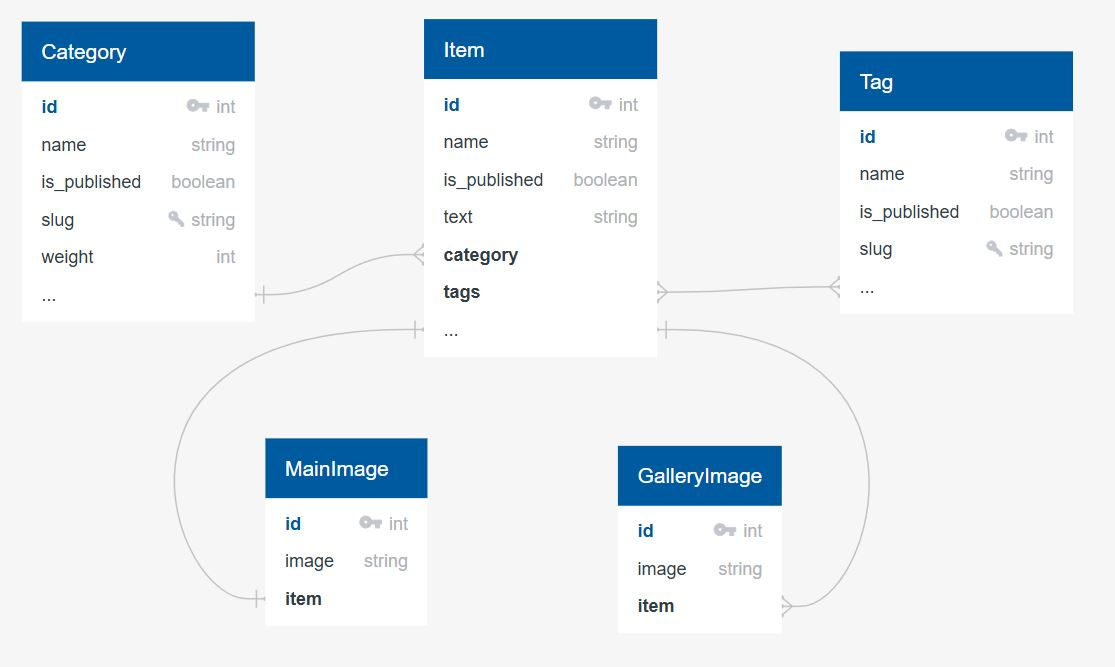
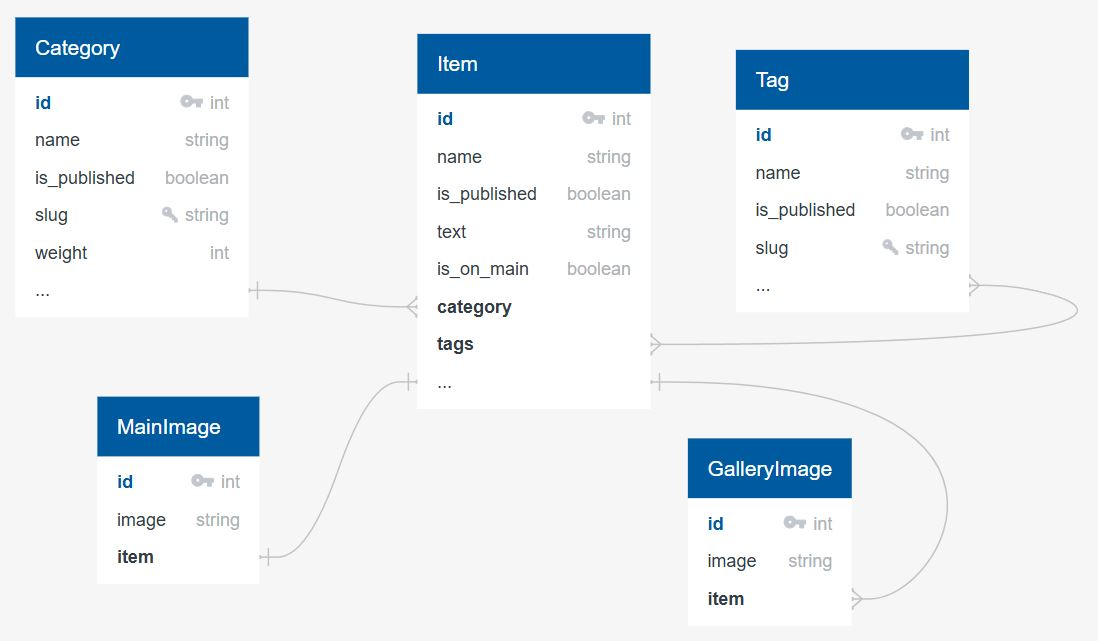
реализовано динамическое наполнение сайта

diff --git a/lyceum/templates/homepage/main.html b/lyceum/templates/homepage/main.html
@@ -2,16 +2,10 @@
 
 {% block content %}
   <h1>Главная страница</h1>
-  <h1>Страница с товарами</h1>
+  <h2>Персональная подборка товаров</h2>
   <div class="d-flex flex-row gap-3">
-    {% for good in goods%}
-      <div class="card" style="width: 18rem;">
-          <div class="card-body">
-          <h5 class="card-title">{{ good.name }}</h5>
-          <p class="card-text">{{ good.description }}</p>
-          <a href="{% url "catalog:item_detail" 1 %}" class="btn btn-primary">Перейти</a>
-          </div>
-      </div>
+    {% for good in goods %}
+      {% include "includes/item_card.html" %}
     {% endfor %}
   </div>
 {% endblock %}

diff --git a/lyceum/templates/catalog/item.html b/lyceum/templates/catalog/item.html
@@ -1,5 +1,17 @@
 {% extends "base.html" %}
+{% load static %}
 
 {% block content %}
-  <h1>Страница отдельного енота</h1>
+  <h1>{{ good.name }}</h1>
+  <img src="{{ good.main_image.get_image_x1280.url }}" class="col-12 col-md-6">
+  <h2>Основная информация</h2>
+  <p>{{ good.text|safe }}</p>
+  <p>Категория: {{ good.category.name }}</p>
+  <p>Теги: {{ good.tags.all|join:", " }}</p>
+  <h3>Галерея:</h3>
+  <div>
+    {% for image in good.images.all %}
+      <img src="{{ image.get_image_x1280.url }}" class="col-12 col-md-3">
+    {% endfor %}
+  </div>
 {% endblock %}

diff --git a/lyceum/templates/catalog/item_list.html b/lyceum/templates/catalog/item_list.html
@@ -3,14 +3,8 @@
 {% block content %}
   <h1>Страница с товарами</h1>
   <div class="d-flex flex-row gap-3">
-    {% for good in goods%}
-      <div class="card" style="width: 18rem;">
-          <div class="card-body">
-          <h5 class="card-title">{{ good.name }}</h5>
-          <p class="card-text">{{ good.description }}</p>
-          <a href="{% url "catalog:item_detail" 1 %}" class="btn btn-primary">Перейти</a>
-          </div>
-      </div>
+    {% for good in goods %}
+      {% include "includes/item_card.html" %}
     {% endfor %}
   </div>
 {% endblock %}

diff --git a/lyceum/templates/includes/item_card.html b/lyceum/templates/includes/item_card.html
@@ -1,0 +1,11 @@
+{% load static %}
+
+<div class="card" style="width: 18rem;">
+    <div class="card-body">
+    <h5 class="card-title">{{ good.name }}</h5>
+    <p class="card-text">Категория: {{ good.category.name }}</p>
+    <p class="card-text">{{ good.text|truncatewords_html:10|safe }}</p>
+    <p class="card-text">Теги: {{ good.tags.all|join:", " }}</p>
+    <a href="{% url "catalog:item_detail" good.id %}" class="btn btn-primary">Перейти</a>
+    </div>
+</div>

diff --git a/lyceum/templates/includes/footer.html b/lyceum/templates/includes/footer.html
@@ -1,5 +1,5 @@
 {% load static %}
 
-<footer class="container bg-dark text-light">
+<footer class="container">
     <h6 class="fs-5">Copyright Racoon-Company. 2024</h6>
 </footer>

diff --git a/lyceum/catalog/tests/test_catalog_views.py b/lyceum/catalog/tests/test_catalog_views.py
@@ -1,14 +1,12 @@
-import http
-
-import django.test
+from django.test import Client, TestCase
 from django.urls import reverse
 
 import catalog.models
 
-__all__ = ["HomepageTests"]
+__all__ = []
 
 
-class HomepageTests(django.test.TestCase):
+class CatalogViewsTest(TestCase):
     def setUp(self):
         self.category1 = catalog.models.Category(
             name="test_category_1",
@@ -20,7 +18,6 @@ class HomepageTests(django.test.TestCase):
             name="test_name_1",
             text="роскошно",
             is_published=True,
-            is_on_main=True,
         )
         self.item2 = catalog.models.Item(
             name="test_name_2",
@@ -54,11 +51,21 @@ class HomepageTests(django.test.TestCase):
         self.item2.save()
         self.item3_unpublished.save()
 
-    def test_homepage_endpoint(self):
-        response = django.test.Client().get(reverse("homepage:homepage"))
+    def test_item_list(self):
+        response = Client().get(reverse("catalog:item_list"))
         goods = response.context["goods"]
-        self.assertEqual(goods.count(), 1)
+        self.assertEqual(goods.count(), 2)
 
-    def test_teapot_endpoint(self):
-        response = django.test.Client().get(reverse("homepage:coffee"))
-        self.assertEqual(response.status_code, http.HTTPStatus.IM_A_TEAPOT)
+    def test_single_item(self):
+        published_item_id = self.item1.id
+        response = Client().get(
+            reverse("catalog:item_detail", args=[published_item_id]),
+        )
+        self.assertIn("good", response.context)
+
+    def test_single_item_unpublished(self):
+        unpublished_item_id = self.item3_unpublished.id
+        response = Client().get(
+            reverse("catalog:item_detail", args=[unpublished_item_id]),
+        )
+        self.assertEqual(response.status_code, 404)

diff --git a/lyceum/catalog/tests/test_urls.py b/lyceum/catalog/tests/test_urls.py
@@ -3,38 +3,11 @@ import django.test
 from django.urls import NoReverseMatch, reverse
 
 
-__all__ = ["CatalogTests"]
+__all__ = ["CatalogUrlsTests"]
 
 
-class CatalogTests(django.test.TestCase):
-    def test_item_list(self):
-        response = django.test.Client().get(reverse("catalog:item_list"))
-        self.assertEqual(response.status_code, 200)
-
-    def test_item_detail_positive_int(self):
-        response = django.test.Client().get(
-            reverse("catalog:item_detail", args=[4]),
-        )
-        self.assertEqual(response.status_code, 200)
-
-    def test_item_detail_negative_int(self):
-        with self.assertRaises(NoReverseMatch):
-            django.test.Client().get(
-                reverse("catalog:item_detail", args=[-1]),
-            )
-
-    def test_item_detail_big_int(self):
-        response = django.test.Client().get(
-            reverse("catalog:item_detail", args=[1931]),
-        )
-        self.assertEqual(response.status_code, 200)
-
-    def test_item_detail_zero(self):
-        response = django.test.Client().get(
-            reverse("catalog:item_detail", args=[0]),
-        )
-        self.assertEqual(response.status_code, 200)
-
+# тестирует регулярное выражение и пользовательский конвертер из urls.py
+class CatalogUrlsTests(django.test.TestCase):
     def test_regex_positive_int(self):
         response = django.test.Client().get(
             reverse("catalog:item_detail_re", args=[146]),

diff --git a/lyceum/catalog/views.py b/lyceum/catalog/views.py
@@ -1,5 +1,8 @@
+from django.db.models import Prefetch
 import django.http
-from django.shortcuts import render
+from django.shortcuts import get_object_or_404, render
+
+import catalog.models
 
 __all__ = ["echo_num", "item_detail", "item_list"]
 
@@ -7,18 +10,26 @@ __all__ = ["echo_num", "item_detail", "item_list"]
 def item_list(request):
     template = "catalog/item_list.html"
     context = {
-        "goods": [
-            {"name": "енот 1", "description": "добрый"},
-            {"name": "енот 2", "description": "дружелюбный"},
-            {"name": "енот 3", "description": "грустный"},
-        ],
+        "goods": (
+            catalog.models.Item.active.select_related("category")
+            .prefetch_related(
+                Prefetch(
+                    "tags",
+                    queryset=catalog.models.Tag.active.all().only("name"),
+                ),
+            )
+            .order_by("category__name", "name")
+            .only("name", "category__name", "text", "tags")
+        ),
     }
     return render(request, template, context)
 
 
 def item_detail(request, detail):
     template = "catalog/item.html"
-    context = {"name": f"енот {detail}"}
+    context = {
+        "good": get_object_or_404(catalog.models.Item.active, pk=detail),
+    }
     return render(request, template, context)
 
 

diff --git a/lyceum/homepage/views.py b/lyceum/homepage/views.py
@@ -1,24 +1,30 @@
 import http
 
+from django.db.models import Prefetch
 from django.http import HttpResponse
 from django.shortcuts import render
 
-__all__ = ["MyClass", "home", "teapot"]
+import catalog.models
 
 
-class MyClass:
-    def __str__(self):
-        return "MyClass"
+__all__ = ["home", "teapot"]
 
 
 def home(request):
     template = "homepage/main.html"
     context = {
-        "goods": [
-            {"name": "енот 1", "description": "добрый"},
-            {"name": "енот 2", "description": "дружелюбный"},
-            {"name": "енот 3", "description": "грустный"},
-        ],
+        "goods": (
+            catalog.models.Item.active.filter(is_on_main=True)
+            .select_related("category")
+            .prefetch_related(
+                Prefetch(
+                    "tags",
+                    queryset=catalog.models.Tag.active.all().only("name"),
+                ),
+            )
+            .order_by("name")
+            .only("name", "category__name", "text", "tags")
+        ),
     }
     return render(request, template, context)
 

diff --git a/lyceum/catalog/migrations/0015_alter_item_options_alter_item_managers_and_more.py b/lyceum/catalog/migrations/0015_alter_item_options_alter_item_managers_and_more.py
@@ -1,0 +1,33 @@
+# Generated by Django 4.2.16 on 2024-10-28 17:57
+
+from django.db import migrations, models
+import django.db.models.manager
+
+
+class Migration(migrations.Migration):
+
+    dependencies = [
+        ("catalog", "0014_alter_item_text"),
+    ]
+
+    operations = [
+        migrations.AlterModelOptions(
+            name="item",
+            options={
+                "ordering": ("name",),
+                "verbose_name": "товар",
+                "verbose_name_plural": "товары",
+            },
+        ),
+        migrations.AlterModelManagers(
+            name="item",
+            managers=[
+                ("active", django.db.models.manager.Manager()),
+            ],
+        ),
+        migrations.AddField(
+            model_name="item",
+            name="is_on_main",
+            field=models.BooleanField(default=False),
+        ),
+    ]

diff --git a/lyceum/catalog/migrations/0016_alter_item_managers_alter_item_is_on_main.py b/lyceum/catalog/migrations/0016_alter_item_managers_alter_item_is_on_main.py
@@ -1,0 +1,24 @@
+# Generated by Django 4.2.16 on 2024-10-29 19:32
+
+from django.db import migrations, models
+
+
+class Migration(migrations.Migration):
+
+    dependencies = [
+        ("catalog", "0015_alter_item_options_alter_item_managers_and_more"),
+    ]
+
+    operations = [
+        migrations.AlterModelManagers(
+            name="item",
+            managers=[],
+        ),
+        migrations.AlterField(
+            model_name="item",
+            name="is_on_main",
+            field=models.BooleanField(
+                default=False, verbose_name="отображать на главной странице"
+            ),
+        ),
+    ]

diff --git a/lyceum/catalog/models.py b/lyceum/catalog/models.py
@@ -29,10 +29,15 @@ class Item(core.models.CoreModel):
         verbose_name="теги",
         help_text="Можно выбрать несколько тегов",
     )
+    is_on_main = models.BooleanField(
+        "отображать на главной странице",
+        default=False,
+    )
 
     class Meta:
         verbose_name = "товар"
         verbose_name_plural = "товары"
+        ordering = ("name",)
 
     def __str__(self):
         return self.name
